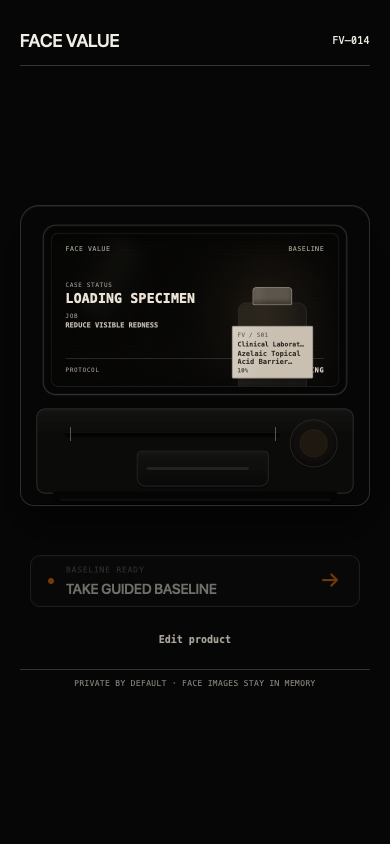
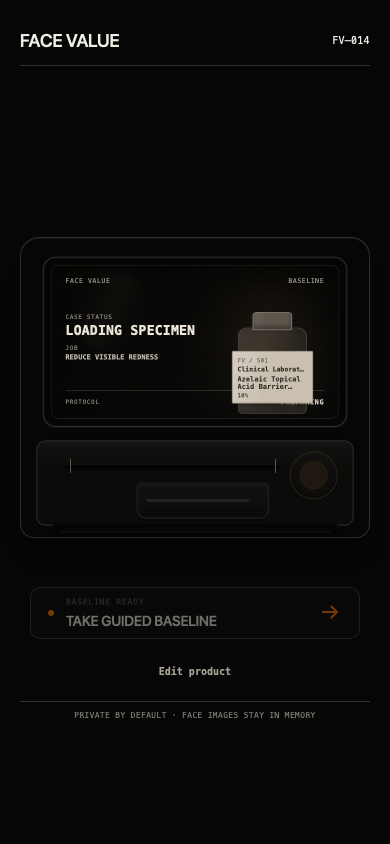
Stabilize first-trial machine position

diff --git a/e2e/first-trial-ingestion.spec.ts b/e2e/first-trial-ingestion.spec.ts
@@ -282,6 +282,7 @@ test('one Oracle instrument accepts, loads, and releases one specimen to baselin
   await expectCurrentNode(specimen, '[data-oracle-specimen]');
   await expectNoHorizontalOverflow(page);
   await page.clock.resume();
+  await page.waitForTimeout(80);
   await captureCheckpoint(page, '07-baseline-ready.png');
 
   await page.evaluate(() => {

diff --git a/src/styles/FaceValue.module.css b/src/styles/FaceValue.module.css
@@ -83,7 +83,7 @@
 
 .firstTrialLeadSlot {
   min-width: 0;
-  min-height: 129px;
+  min-height: 161px;
 }
 
 .firstTrialWelcomeLead {
